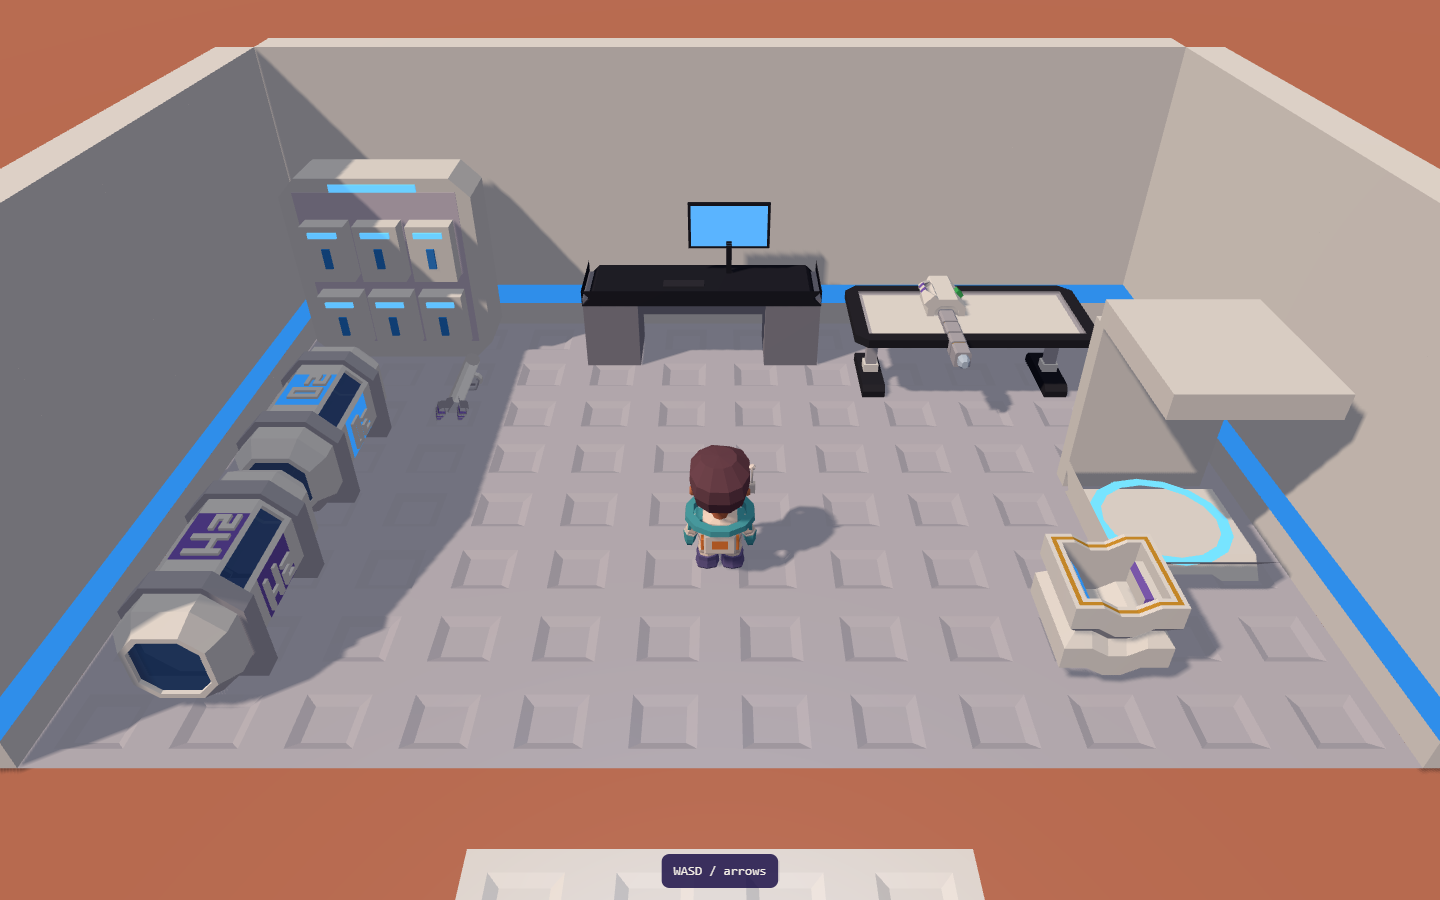
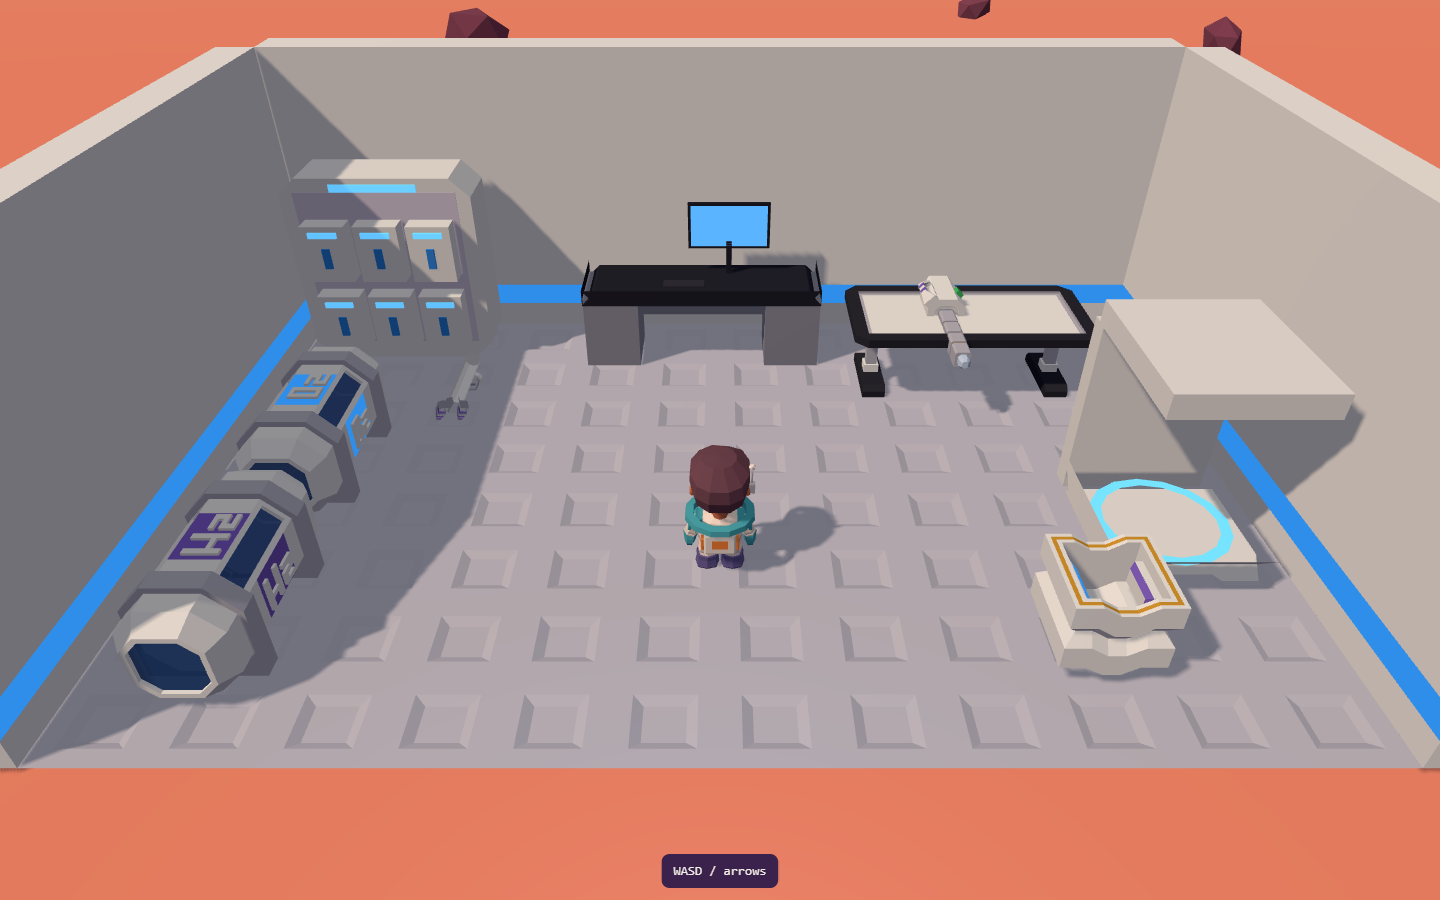
feat(escena): alrededor de las salas, el Marte del exterior (suelo, rocas, cordillera y bruma)

Changed region(s): [[0.0, 0.84, 1.0, 1.0], [0.0, 0.0, 1.0, 0.1867]]

diff --git a/ui/src/escena/activos/interiores/salaEstacion.ts b/ui/src/escena/activos/interiores/salaEstacion.ts
@@ -7,6 +7,8 @@ import type { PuntoSala } from "./salaKit";
 import { cultivoVeggie, terminal } from "./salaPastel";
 import { dock, estanteBaterias } from "./taller";
 import { caja, chaflan, grupo } from "../piezasComunes";
+import { crearMontanas } from "../terrenoVisual";
+import { colorToken } from "../../materiales";
 
 const NEGRO_MESA = new THREE.MeshStandardMaterial({ name: "Desk_Top", color: "#1D1E2A", roughness: 0.55 });
 const GRIS_MESA = new THREE.MeshStandardMaterial({ name: "Desk_Body", color: "#8F8E9C", roughness: 0.7 });
@@ -156,6 +158,36 @@ function materialesEstacion(m: Materiales): Materiales {
   };
 }
 
+/**
+ * What the open top shows around the room: the same Mars as outdoors, in cheap pieces. Regolith in the
+ * outdoor ground tone, the outdoor crater rim (`crearMontanas`, one mesh, < 1000 triangles) pulled in close,
+ * and a ring of instanced rocks; the caramel haze of the outdoor horizon (`AMBIENTE_ESTACION.niebla`) melts
+ * them into the sky. About 3 draw calls; nothing out here casts shadows.
+ */
+function entornoMarte(materiales: Materiales): THREE.Group {
+  const g = new THREE.Group();
+  g.name = "Station_Mars_Around";
+  const suelo = new THREE.Mesh(new THREE.CircleGeometry(120, 24), new THREE.MeshStandardMaterial({ name: "Station_Regolith", color: colorToken("regolito-claro"), roughness: 1 }));
+  suelo.rotation.x = -Math.PI / 2;
+  suelo.position.y = -0.05;
+  suelo.receiveShadow = true;
+  const montes = crearMontanas(materiales, { radio: 46, alto: 10, picos: 44, semilla: 7 });
+  montes.position.y = -0.5;
+  // Rocks: a seeded ring between the room and the rim.
+  const roca = new THREE.IcosahedronGeometry(1, 0);
+  const rocas = new THREE.InstancedMesh(roca, new THREE.MeshStandardMaterial({ name: "Station_Rock", color: colorToken("roca-basalto"), roughness: 0.95, flatShading: true }), 48);
+  let semilla = 11;
+  const azar = () => ((semilla = (semilla * 16807) % 2147483647) / 2147483647);
+  const m = new THREE.Matrix4(), q = new THREE.Quaternion(), e = new THREE.Euler(), v = new THREE.Vector3(), sc = new THREE.Vector3();
+  for (let i = 0; i < rocas.count; i++) {
+    const ang = azar() * Math.PI * 2, r = 10 + azar() * 28, t = 0.3 + azar() * azar() * 1.6;
+    rocas.setMatrixAt(i, m.compose(v.set(Math.cos(ang) * r, t * 0.3, Math.sin(ang) * r), q.setFromEuler(e.set(azar() * 3, azar() * 3, azar() * 3)), sc.set(t, t * 0.7, t * 1.1)));
+  }
+  rocas.receiveShadow = true;
+  g.add(suelo, montes, rocas);
+  return g;
+}
+
 export function crearSalaEstacion(sala: SalaEstacion, materialesJuego: Materiales): Sala3D {
   const materiales = materialesEstacion(materialesJuego);
   const plano = PLANOS[sala];
@@ -195,12 +227,7 @@ export function crearSalaEstacion(sala: SalaEstacion, materialesJuego: Materiale
     };
     const suelo = new THREE.Group();
     suelo.name = "Station_Floor";
-    // The rooms stand inside the Mars colony: regolith all around, under the open top.
-    const marte = new THREE.Mesh(new THREE.PlaneGeometry(160, 160), new THREE.MeshStandardMaterial({ name: "Station_Outside", color: "#C97A5E", roughness: 1 }));
-    marte.rotation.x = -Math.PI / 2;
-    marte.position.y = -0.05;
-    marte.receiveShadow = true;
-    raiz.add(marte);
+    raiz.add(entornoMarte(materiales));
     raiz.add(suelo);
     // A mid grey floor under white walls and furniture: the room gets a base tone and the shadows read.
     const piso = new THREE.MeshStandardMaterial({ name: "Station_Floor", color: "#C2C0CC", roughness: 0.75, metalness: 0 });
@@ -282,7 +309,8 @@ export function puntosSalaEstacion(sala: SalaEstacion): PuntoSala[] {
 
 /** Lights of an open-top room: a low fill and one warm key from the side, so walls and props cast shadows. */
 export const AMBIENTE_ESTACION = {
-  // Martian daytime sky, the same caramel horizon as outdoors.
+  // Martian daytime sky and the outdoor horizon haze, so the rim and the rocks fade like outside.
   fondoEscena: "#F2CDB0",
+  niebla: { color: "#F2CDB0", cerca: 22, lejos: 75 },
   luz: { color: "#FFE9D2", intensidad: 2.1, hemiCielo: "#EEF0FA", hemiSuelo: "#6E6985", hemi: 1.15 },
 } as const;
